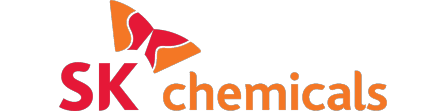
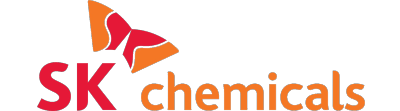
Resize ajou, IPK, SK, SNUH

Changed region(s): [[0.09, 0.0, 0.45, 1.0], [0.33, 0.6216, 0.93, 1.0], [0.63, 0.6486, 0.69, 0.7297]]

diff --git a/partnership.html b/partnership.html
@@ -58,7 +58,7 @@ feature_row:
     url: "http://global.ajoumc.or.kr/Eng/Index.aspx"
     btn_label: "Read More"
     btn_class: "btn--inverse"
-  - image_path: /assets/images/partnership/SNUH_BRI_logo.png
+  - image_path: /assets/images/partnership/SNUH.png
     alt: "Seoul National University Hospital Biomedical Research Institute Logo"
     title: "Seoul National University Hospital Biomedical Research Institute"
     url: "http://en.bri.snuh.org"
